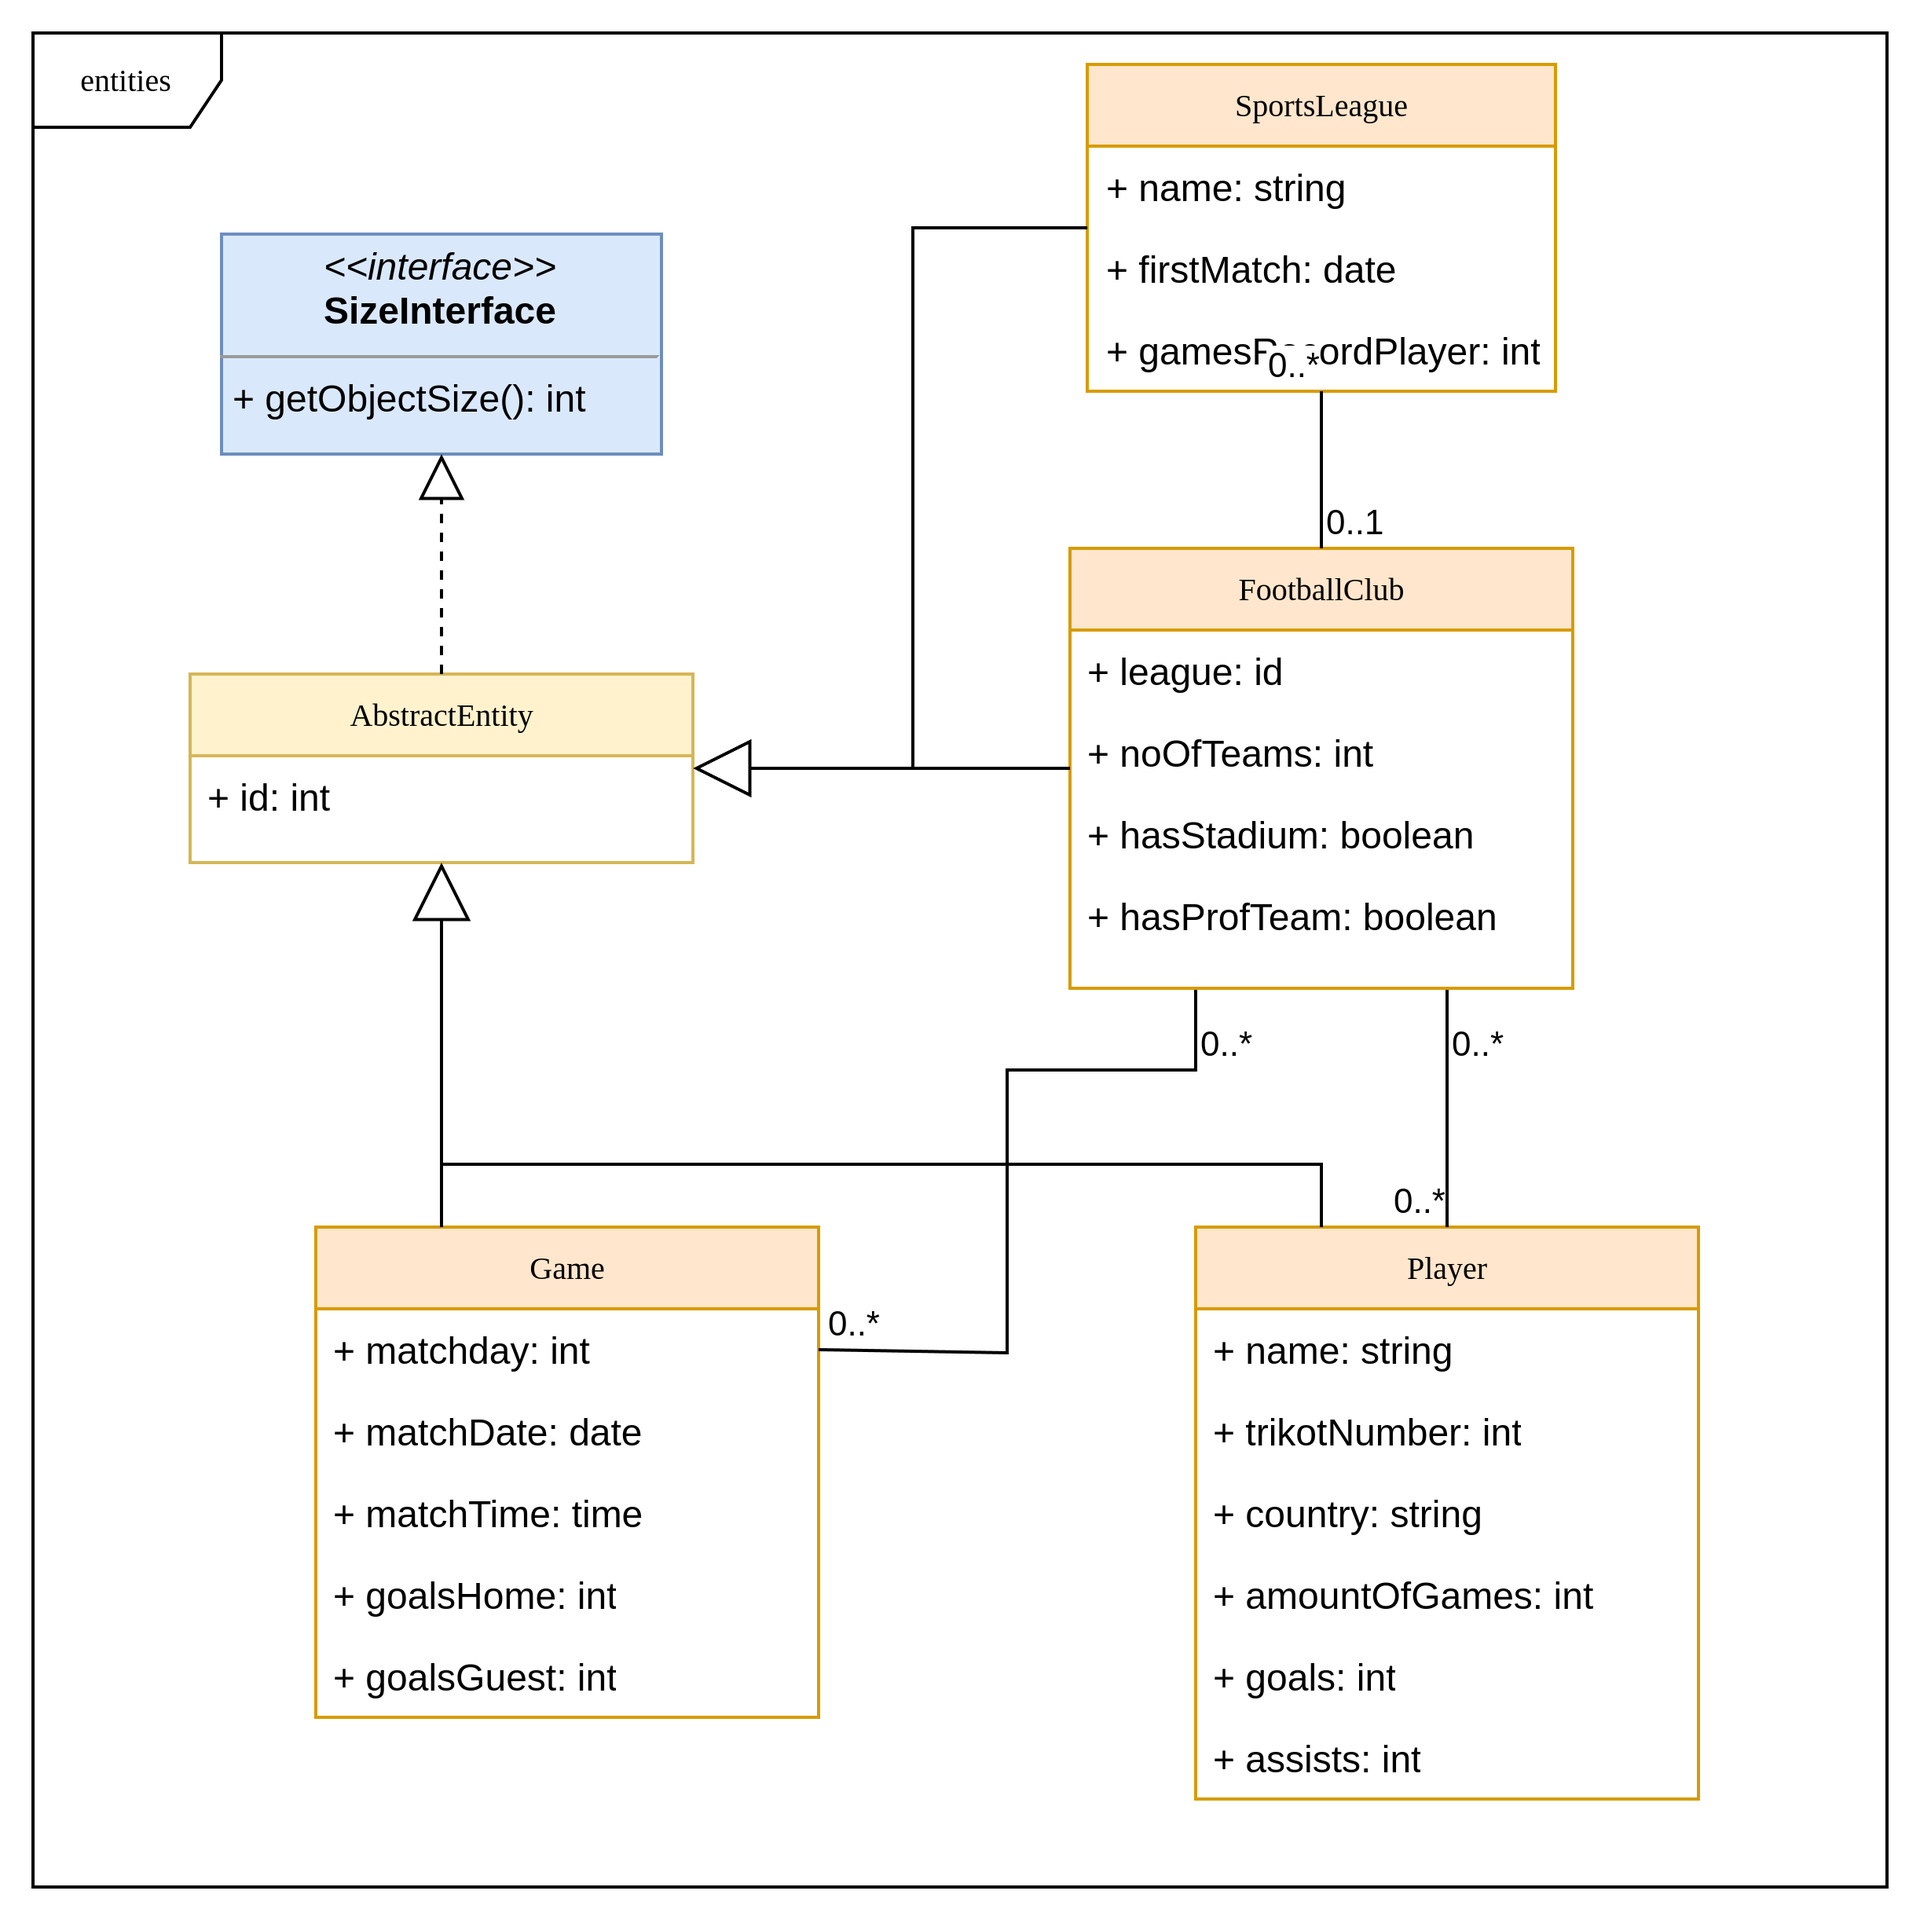
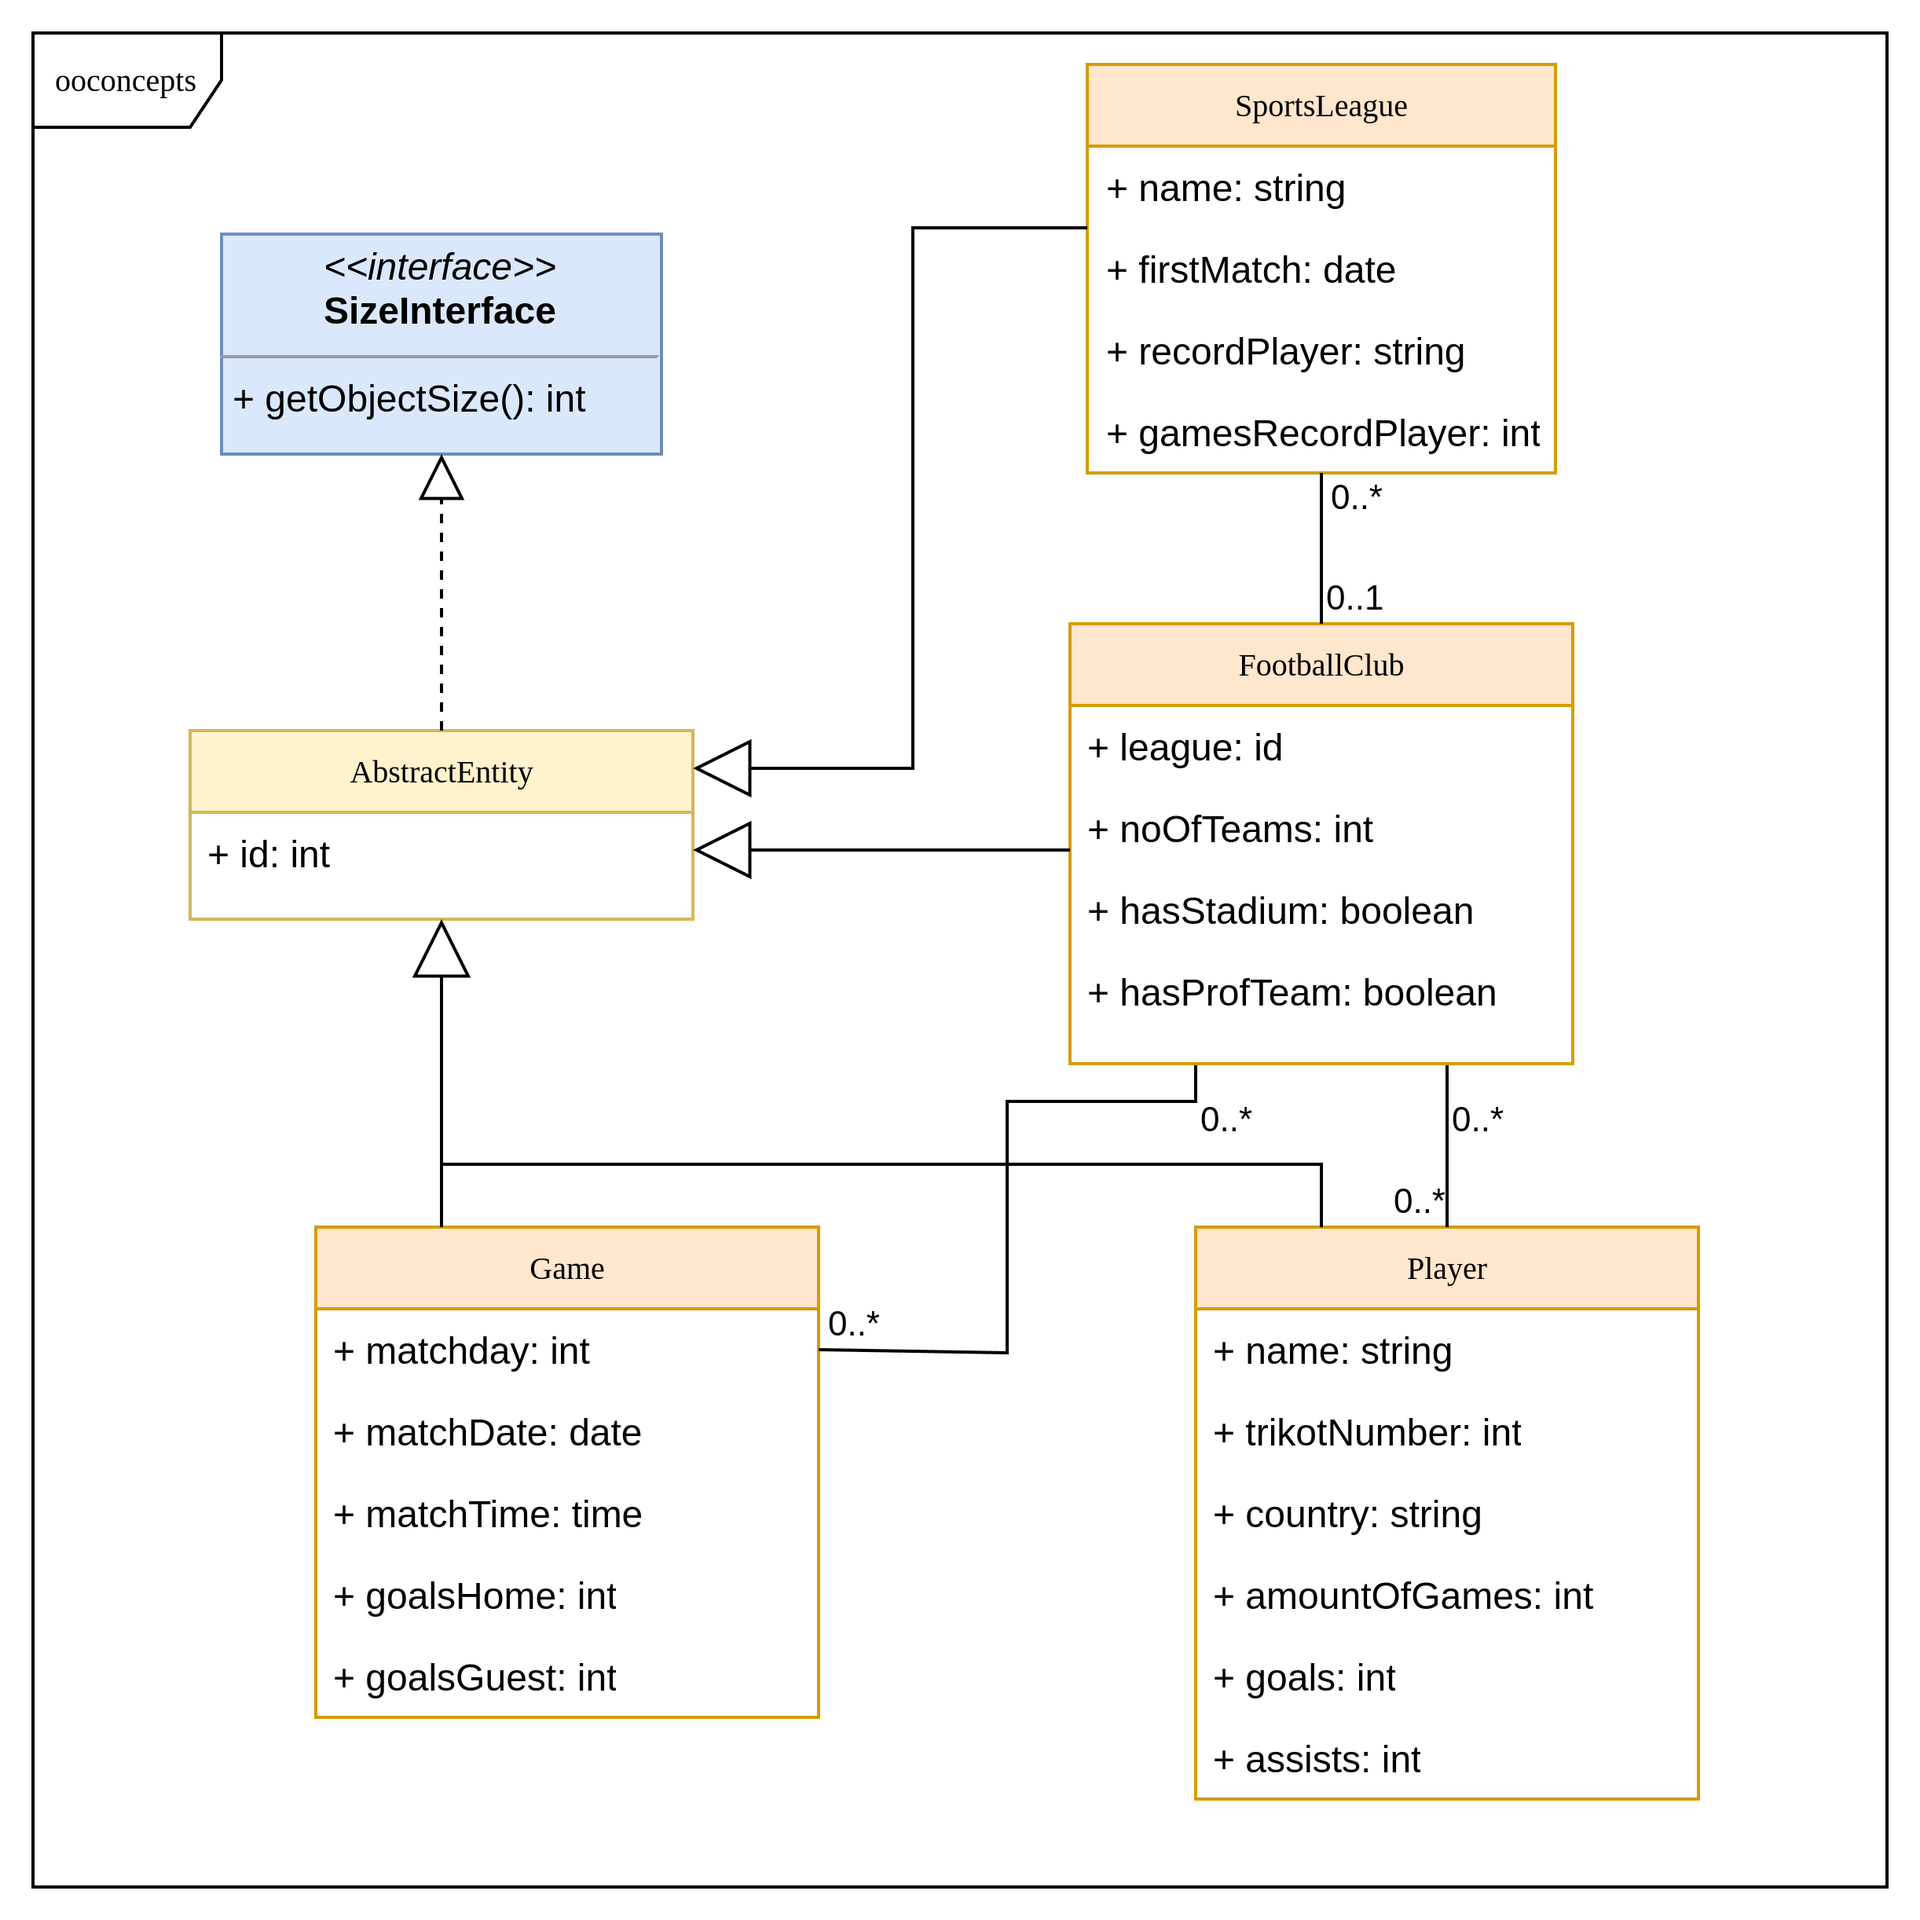
work on OO example

Changed region(s): [[0.5597, 0.1555, 0.8396, 0.5908], [0.0933, 0.3421, 0.4043, 0.5286], [0.0311, 0.0311, 0.0933, 0.0622]]

diff --git a/03-objection-orientation/02-relations/Program.cs b/03-objection-orientation/02-relations/Program.cs
@@ -6,7 +6,11 @@ namespace ooconcepts
     public class Program
     {
         readonly ILogger logger;
-        readonly ClubEntity ce;
+
+        LeagueEntity[] leagues = new LeagueEntity[3];
+
+        ClubEntity[] clubs = new ClubEntity[4];
+
         public static void Main(string[] args)
         {
             var p = new Program();
@@ -19,14 +23,31 @@ namespace ooconcepts
 
             System.Console.WriteLine("Starting Program");
             logger.LogInformation("Program initialized");
-            ce = new ClubEntity(1,"Test",1);
+
+            logger.LogDebug("Creating Data");
+
+            clubs[0] = new ClubEntity(1,"FC Bayern Muenchen",1);
+            clubs[1] = new ClubEntity(2,"VfL Wolfsburg",1);
+            clubs[2] = new ClubEntity(3,"Borussia Moenchengladbach",1);
+            clubs[3] = new ClubEntity(4,"1. FC Kaiserslautern",2);
+
+            leagues[0] = new LeagueEntity(1, "1. Bundesliga", new DateTime(1963, 08, 24), "Karl-Heinz Körbel", 602);
+            leagues[1] = new LeagueEntity(1, "2. Bundesliga", new DateTime(1974, 02, 08), "Willi Landgraf", 508);
+            leagues[2] = new LeagueEntity(1, "3. Bundesliga", new DateTime(2008, 07, 25), "ens Truckenbrod", 209);
         }
 
         public void Start()
         {
-            ce.Name = "1. FC Union Berlin";
             logger.LogInformation("Program started");
-            logger.LogDebug("Club information: {club}", ce.ToString());
+            for(int i = 0; i < clubs.Length; i++)
+            {
+                logger.LogDebug("Club information: {club}", clubs[i].ToString());
+            }
+
+            for(int i = 0; i < leagues.Length; i++ )
+            {
+                logger.LogDebug("League information: {league}", leagues[i].ToString());
+            }
         }
 
         private static ILogger SetupLogging()

diff --git a/03-objection-orientation/02-relations/entities/LeagueEntity.cs b/03-objection-orientation/02-relations/entities/LeagueEntity.cs
@@ -1,0 +1,45 @@
+using ooconcepts;
+
+namespace ooconcepts
+{
+    internal class LeagueEntity: AbstractEntity
+    {
+        private string name = "";
+        private DateTime foundingDate;
+        private string recordPlayer = "";
+        private int gamesRecordPlayer;
+
+        public LeagueEntity(int id, string name, DateTime foundingDate, string recordPlayer, int gamesRecordPlayer)
+        {
+            this.id = id;
+            this.name = name;
+            this.foundingDate = foundingDate;
+            this.recordPlayer = recordPlayer;
+            this.gamesRecordPlayer = gamesRecordPlayer;
+        }
+        
+        public string Name
+        {
+            get { return name; }
+            set { name = value; }
+        }
+
+        public DateTime FoundingDate
+        {
+            get { return foundingDate; }
+            set { foundingDate = value; }            
+        }
+
+        public string RecordPlayer
+        {
+            get { return recordPlayer; }
+            set { recordPlayer = value; }
+        }   
+
+        public int GamesRecordPlayer
+        {
+            get { return gamesRecordPlayer; }
+            set { gamesRecordPlayer = value; }
+        }               
+    }
+}

diff --git a/03-objection-orientation/02-relations/entities/ClubEntity.cs b/03-objection-orientation/02-relations/entities/ClubEntity.cs
@@ -17,7 +17,7 @@ namespace entities
 
         public override string ToString()
         {
-            return base.ToString(); //"[" + ID + ", " + name + ", " + league + "]";
+            return "[" + ID + ", " + name + ", " + league + "]";
         }
 
         public string Name

diff --git a/03-objection-orientation/02-relations/entities/AbstractEntity.cs b/03-objection-orientation/02-relations/entities/AbstractEntity.cs
@@ -1,0 +1,13 @@
+namespace ooconcepts
+{
+    abstract class AbstractEntity
+    {
+        protected int id;
+
+        public int ID
+        {
+            get {return id;}
+            set {id = value;}
+        }
+    }
+}

diff --git a/03-objection-orientation/Readme.md b/03-objection-orientation/Readme.md
@@ -55,7 +55,7 @@ The following picture shows a model subset from last subsection, that we are goi
 Every entity from the football application domain is represented by a class. As we will deal with many instances for every class e.g. there will 18 clubs for the first German football league. So we need a mechanism to tell those instances apart. For this a unique id is used and as this is necessary for all classes, attributes and logic needed are put in an AbstractEntity class from which all others will inherit.
 
 ## 01 - OO concepts
-This example introduces a first insight, on how to store data in C# programs. A list of C#'s built-in data can be found [here](https://learn.microsoft.com/en-us/dotnet/csharp/language-reference/builtin-types/built-in-types)
+Getting a first idea how to work with classes and objects is the topic of this example. You will start to implement the classes introduced in the last subsection and play with possibilities to combine data and code.
 
 ### How to execute
 On the commandline use this to run program:
@@ -69,14 +69,38 @@ Or use the run button in your IDE.
 * Run program
 * Create a class for Leagues, Games and Players
 * Make sure all class definitions inherit from AbstracEntity
-* override getObjectSize method in every class you wrote
+* Create instances for every class and set fields with values of your choice
+* Override getObjectSize method in every class you wrote - think of an appropriate concept, to measure size of an object.
+* Look at method ToString in ClubEntity and replace base implementation with the one commented out.
 * create a ToString method for every class, that outputs all fields enclosed in curly brackets
 
 ## 02 - Working with objects and relations
 
+### How to execute
+On the commandline use this to run program:
+```shell
+    cd 02-relations
+    dotnet run
+```
 
 ### Tasks
-* create three league/club/player/game objects and fill all fields
-* for every class create a list and put your instances into that list
-* create (nice) output for all instances content
-* set relations
+* Copy your class definition from last chapter
+* Create three objects for each league/club/player/game class fill all fields
+* For every class create an array and put your instances into that array, note setting proper ids
+* Create a method that outputs all instances content in each array.
+* Why are arrays a very bad idea?
+* Id field in every class + reference allows you to implement relations from UML diagram - write a method, that takes a LeagueEntity + an array of ClubEntites and outputs all clubs playing in given league.
+* Ids are a pretty complicated way, to do this - any idea, what else is possible?
+* Consider following code:
+  ```C#
+    internal class ClubEntity: AbstractEntity
+    {
+        LeagueEntity myLeague;
+
+        public LeagueEntity MyLeague
+        {
+            get {return myLeague;}
+            set {myLeague = value;}
+        }
+  ```
+  Replace all single relations, with a reference to an actual object. Adapt data setup section in constructor.
